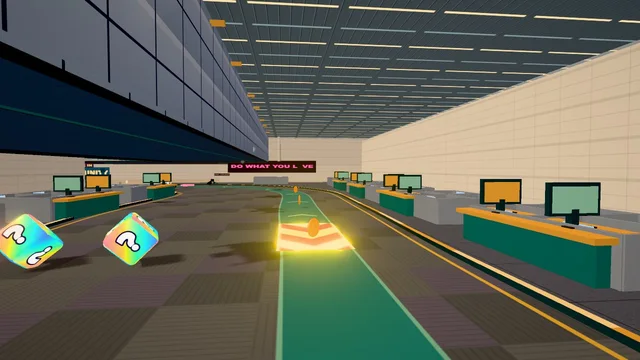
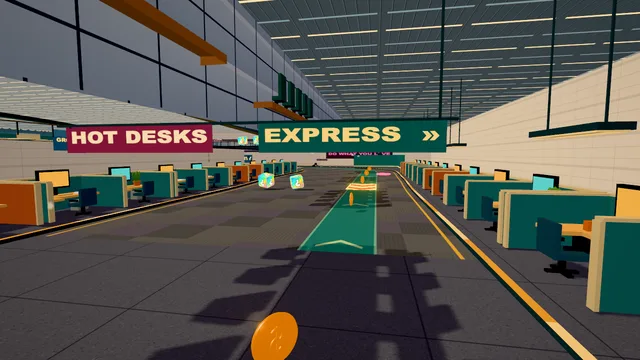
Give both landing doors a visible stair profile and clear racing lines (#278)

diff --git a/src/tracks/wework-memorial.js b/src/tracks/wework-memorial.js
@@ -130,6 +130,7 @@ export default {
   // the opening: three shots composed INSIDE the building (#193) — the generic
   // Shoot inside the rooms with the chase sightline clear of both floors.
   introOnly: true,
+  thumbView: { at: AT['touchdown'], lat: -6.8, h: 4.3, back: 1, look: 37 },
   intro: [
     // a) the lobby, low, along the start straight toward the gantry and the $47B → $0 board
     { pos: [-60, 2.5, 50], pos1: [-40, 3, 52], look: [30, 4, 60], look1: [30, 4, 60], fov: 58, dur: 3.0 },
@@ -182,11 +183,11 @@ export default {
     // On the final lap the movers leave their dolly on the express stripe.
     { kind: 'timed', model: 'dolly', at: AT['L3 mid'] + 0.87, lat: -5, period: 1, duty: 1, effect: 'bump', radius: 1.15, fromLap: -1 },
     // the phone-booth slalom, all on the flat mezzanine deck (z = 23, 15, 7, -1)
-    { kind: 'static', model: 'booth', at: between('C1 exit', 'C2 entry', 0.295), lat: 6.45, effect: 'bump', radius: 0.95 },
-    { kind: 'static', model: 'booth', at: between('C1 exit', 'C2 entry', 0.477), lat: -6.45, effect: 'bump', radius: 0.95 },
-    { kind: 'static', model: 'booth', at: between('C1 exit', 'C2 entry', 0.659), lat: 6.45, effect: 'bump', radius: 0.95 },
-    { kind: 'static', model: 'booth', at: between('C1 exit', 'C2 entry', 0.841), lat: -6.45, effect: 'bump', radius: 0.95 },
-    { kind: 'static', model: 'neonO', at: AT['C3 exit'] - 0.35, lat: -6, effect: 'bump', radius: 1.9 },   // the fallen O
+    { kind: 'static', model: 'booth', at: between('C1 exit', 'C2 entry', 0.295), lat: 8.7, effect: 'bump', radius: 0.85 },
+    { kind: 'static', model: 'booth', at: between('C1 exit', 'C2 entry', 0.477), lat: -7.45, effect: 'bump', radius: 0.85 },
+    { kind: 'static', model: 'booth', at: between('C1 exit', 'C2 entry', 0.659), lat: 8.7, effect: 'bump', radius: 0.85 },
+    { kind: 'static', model: 'booth', at: between('C1 exit', 'C2 entry', 0.841), lat: -7.45, effect: 'bump', radius: 0.85 },
+    { kind: 'static', model: 'neonO', at: AT['L3 mid'] + 1.35, lat: -8.25, effect: 'bump', radius: 1.52 },   // the fallen O
     { kind: 'static', model: 'papers', at: AT['C6 entry'] - 0.9, lat: -6.2, effect: 'squash', radius: 1.6 },  // IPO paperwork (at -0.5→-0.9, lat -3.5→-6.2, #237 step 4: was on the racing line into C6, 9-10 hits/race at cp 39.5)
     { kind: 'static', model: 'papers', at: between('L15 entry', 'L16 entry', 0.5), lat: 4, effect: 'squash', radius: 1.6 },  // repossession paperwork
     { kind: 'patrol', model: 'bot', at: between('HP entry', 'L1 entry', 1.8), lats: [-8.4, -6.0], speed: 1.6, effect: 'spin', radius: 1.2 },  // the cleaning bot
@@ -564,7 +565,7 @@ function dressSectors(ctx, H) {
   bakePlace(W.deskUnit(), 78.2, 14, { yaw: -Math.PI / 2, y: 3.44 });       // the lone lit office
   for (const z of [21, 3]) bakePlace(W.planter(2.6), 58.6, z, { yaw: Math.PI / 2, y: 3.44 });
   { // DO NOT DISTURB on the second booth, facing the road (atlas panel)
-    const bp = atPos(between('C1 exit', 'C2 entry', 0.477), -6.45, 1.95);
+    const bp = atPos(between('C1 exit', 'C2 entry', 0.477), -7.45, 1.95);
     putSign(['DO NOT DISTURB — PERMANENTLY'], 1.7, .34, bp.x, bp.y, bp.z, bp.yaw / DEG + 180, { bg: '#23262d', fg: '#ffb3ab', size: 70 });
   }
 
@@ -786,6 +787,26 @@ function furnishOffice(ctx, H) {
     box(x-.43,3.04,z,.12,4.04,.10,ink);
     for(const dz of [-1.49,1.49]) {box(x-.43,5.06,z+dz,.10,1.28,.58,0xa1c8ca);box(x-.49,4.09,z+dz,.13,.15,2.07,ivory);}
     graphic(label,x-.27,9.22,z,-90,5.3,3.4,'#263941','#f5d4a5');
+    // From the approaching kart the transverse fire escape reads in profile:
+    // both sawtooth flights, the bridge in front of the fire doors, and the balustrade.
+    const wallX = x - 1.65, nearX = wallX - 1.12;
+    box(wallX, 2.62, z, 2.66, .32, 6.5, ink);
+    for (const [startZ, startY, rise] of [[z-17,.12,2.82],[z+3.2,2.94,3.7]]) {
+      const run = 13.8, count = 13, step = run / count;
+      for (let i = 0; i < count; i++) {
+        const posZ = startZ + (i + .5) * step, height = startY + (i + 1) * rise / count;
+        box(wallX, height-.37, posZ, 2.68, .37, step+.04, ivory);
+        box(nearX-.16, height-.34, posZ, .25, .34, step+.04, ink);
+        box(wallX, height-.02, posZ-step*.42, 2.72, .085, .18, 0xf7bd54);
+        if (i % 2 === 0) box(nearX, height, posZ, .12, 1.14, .12, ink);
+      }
+      const top = startY+rise+1.27, bottom = startY+1.27;
+      q.quad([nearX,bottom,startZ],[nearX,top,startZ+run],
+        [nearX,top-.17,startZ+run],[nearX,bottom-.17,startZ],1,1,ivory);
+      q.quad([nearX+.17,bottom,startZ],[nearX+.17,top,startZ+run],
+        [nearX,top,startZ+run],[nearX,bottom,startZ],1,1,ink);
+    }
+
     for(const dz of [-7,7]) {box(x-.43,8.24,z+dz,.16,2.32,3.62,0x9ab5b7);box(x-.53,8.24,z+dz,.19,2.32,.15,ink);}
   }
   // Right-angled corridors beyond the rounded driving apex; baseboards wrap the corner.
